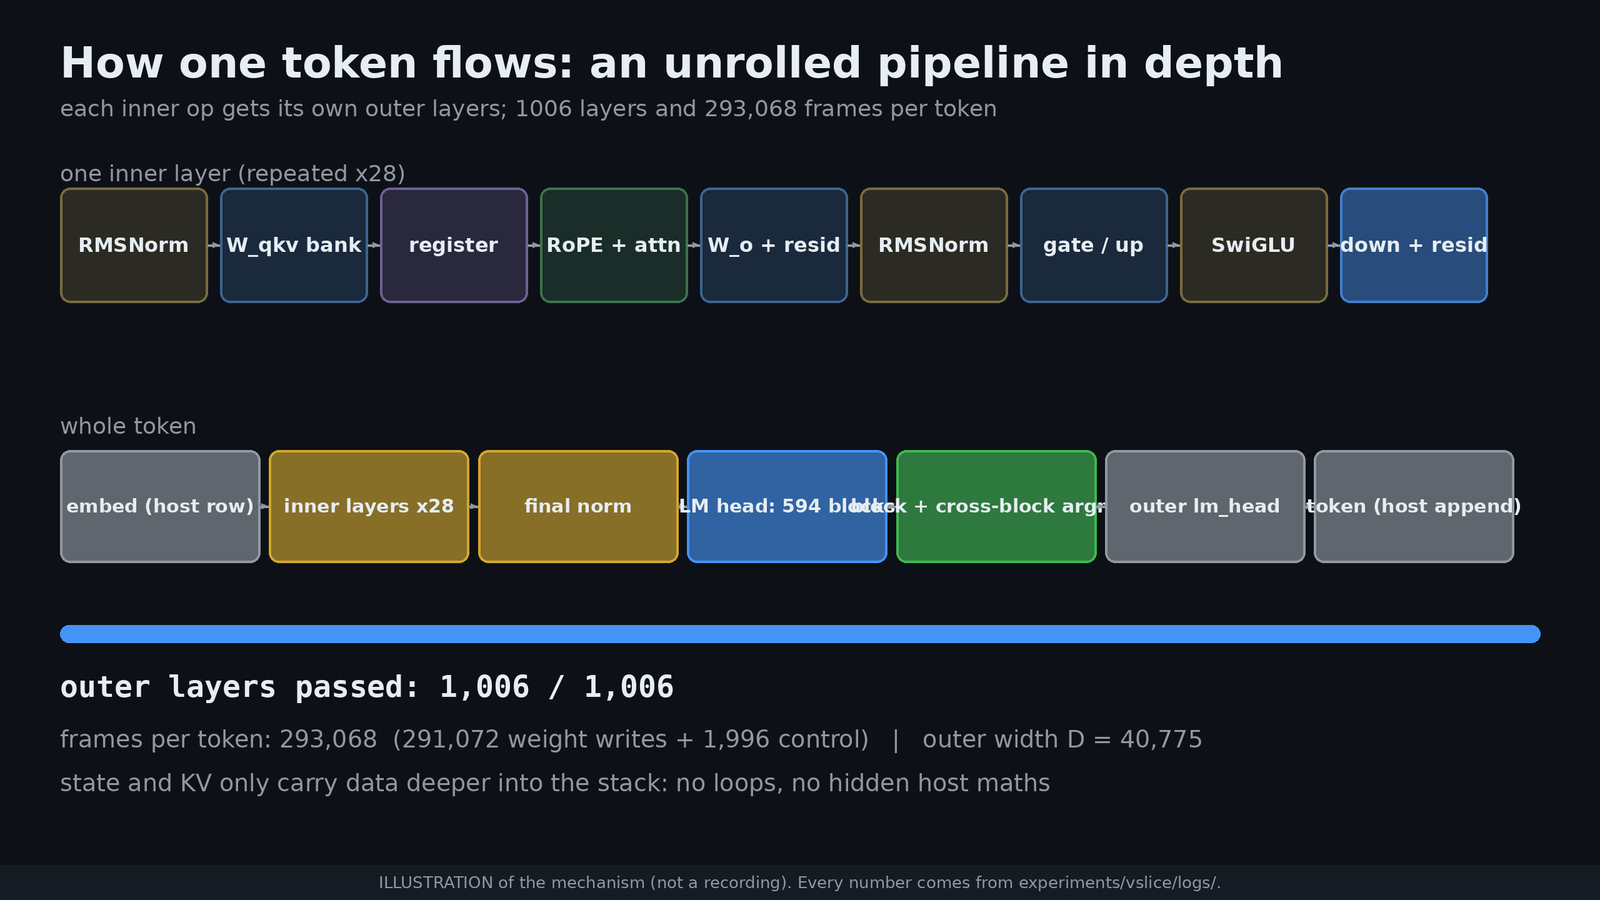
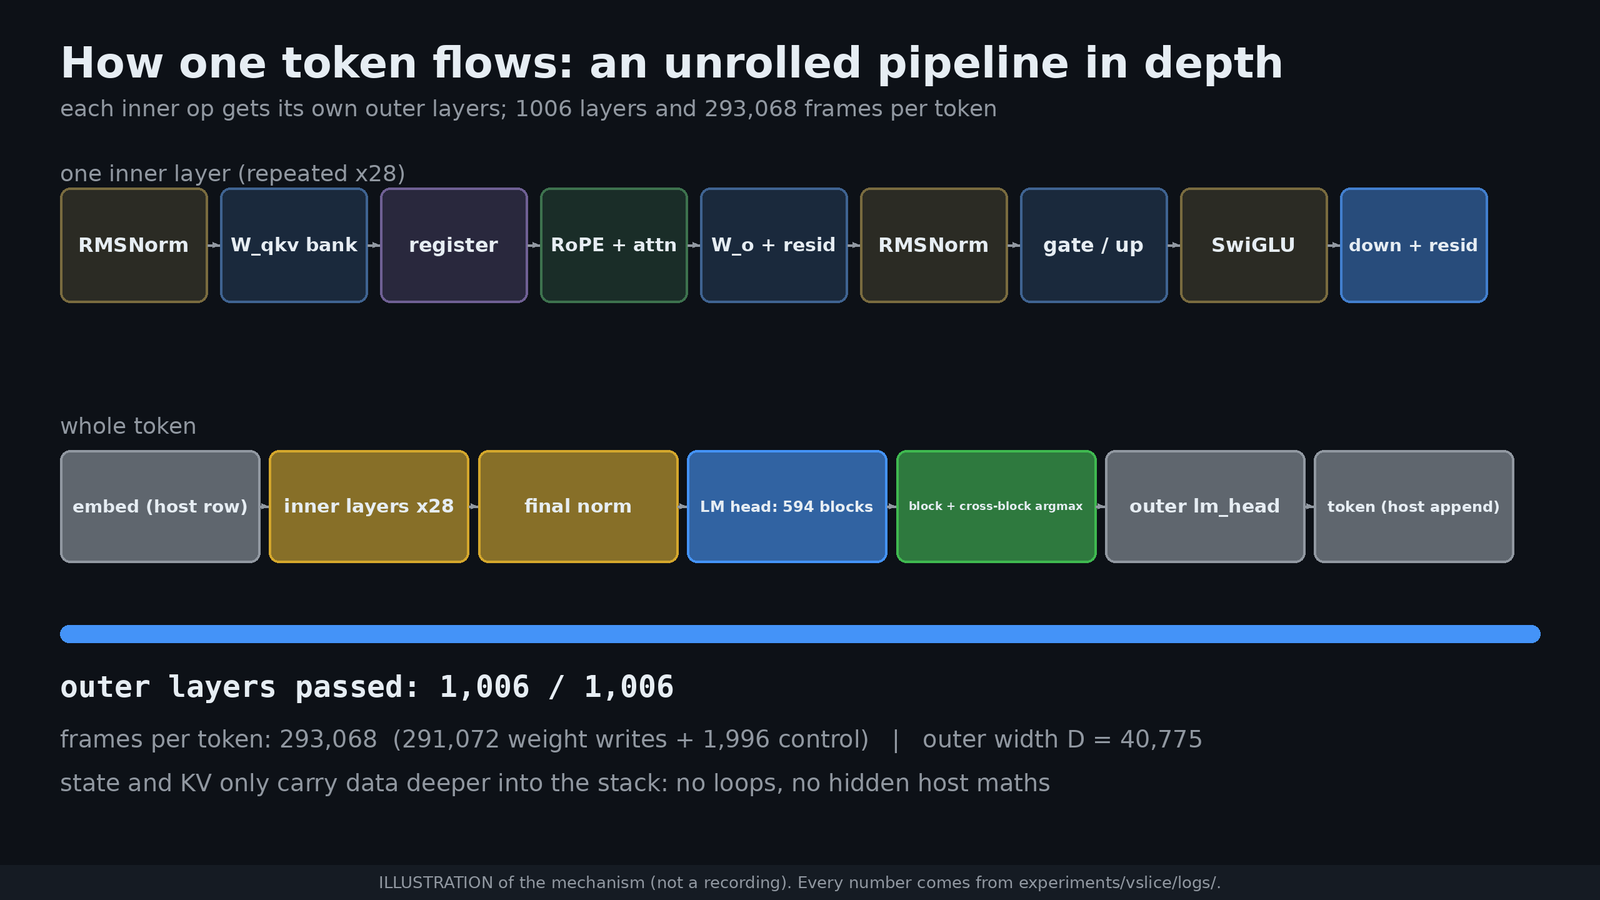
docs(tiers): tiny-model measured table, 0.6b measured instruction counts with context dimension, reconcile q4v vs t3

diff --git a/docs/TIERS.md b/docs/TIERS.md
@@ -12,7 +12,7 @@ s/token = trace tokens per token / trace-tok/s. Rate column for T1+ is Qwenputer
 |---|---|---|---|---|---|---|---|---|---|---|
 | T0 | literal: plain C int8 RV32IM, stock HF modules | 4.0e9 [P] | 5.6e9 [P] | 91-250 [M upstream, HF path] | 1 | L4 | 2.2e7 - 6.1e7 (0.7-1.9 yr) | PROJECTED | plan sec. 3, 5 | e713778 |
 | T1 | T0 + fused executor (Triton + CUDA graph) | 4.0e9 [P] | 5.6e9 [P] | 5,562 [M upstream] | 1 | L4 | 1.0e6 (11.6 d) | PROJECTED | plan sec. 5 | e713778 |
-| T2 | T1 + SMAQA int8 build (VDOT int4 is T3) | 5.4e8 matvec only [P from M instr/MAC 0.913] | 7.6e8 at 1.4 tok/instr [P] | 5,562 | 1 | L4 | 1.4e5 (39 h) | PROJECTED | plan sec. 3, 5 | e713778 |
+| T2 | T1 + SMAQA int8 build (ctx 1 throughout; see context table) (VDOT int4 is T3) | 5.4e8 matvec only [P from M instr/MAC 0.913] | 7.6e8 at 1.4 tok/instr [P] | 5,562 | 1 | L4 | 1.4e5 (39 h) | PROJECTED | plan sec. 3, 5 | e713778 |
 | T3 | T2 + VDOT int4 (0.176 instr/MAC) + nonlinear ISA ext + algorithmic cuts | 1.05e8 matvec only [P from M 0.176] + nonlinear, not yet counted | 1.25e8-1.5e8 matvec only [P] (plan said 1.2e8) | 3,300-5,562 | 1 | L4/A10G | 2.3e4 - 4.5e4 (6-12 h), nonlinear extra |  PROJECTED | plan sec. 5 | e713778 |
 | T4 | T3 + persistent kernel, faster GPU | same | 1.2e8 | 1.0e4-1.6e4 [E] | 1 | L40S/A100/H100 | 7.5e3 - 1.2e4 | PROJECTED | plan sec. 5 | e713778 |
 | T5 | T3 + in-forward-pass lanes (SIMT) | same | ~1.3e8 + join | 5,562 per executor [M upstream, batch 1] | 2-4 lanes (4B only; 0.8B 1 lane) | 1 GPU, fused executor needed | 8.3-12.4 h/token at 16 lanes, 8.7-10.1 h at 4 lanes (multicore model, nonlinear unsplit); gain bounded ~1.4x by token bus | PROJECTED [needs R2, R4] | `experiments/circuit/multicore/res_model.json` | efc7dad |
@@ -30,6 +30,30 @@ Correction (multicore, 44ba97c, modeled not run): lane-level parallelism inside 
 - Effects multiply only when they act on different factors: instruction count (compiler, kernels, algo, nonlinear), trace tokens per instruction (ISA fusion), and tokens per second (engine, hardware, lanes). Within the same factor they overlap (for example nonlinear ISA and kernels both cut instructions) and must be re-measured jointly, not multiplied.
 - Lanes (T5) multiply the rate only if the work is divisible without a serial dependency; layers are serial, so lane speedup applies within a layer's matvec rows, and the per-layer synchronisation cost is unmeasured.
 - Stories260K scaling to Qwen3-0.6B assumes cost proportional to parameters; plan sec. 3 gives caveats (LM head 26 % of MACs, nonlinear ops not proportional). Treat as +-2x until the compiler agent's measured instr/MAC replaces it.
+
+## Measured tiny-model runs (NOT Qwen3-0.6B; model size stated)
+
+| Run | Inner model | Outer / executor | Trace tokens | Rate | Exactness | Evidence | Commit |
+|---|---|---|---|---|---|---|---|
+| tiny Qwen3-architecture firmware, 16 generated tokens | dim 64, 8 heads / 4 kv, head size 8, hidden 128, 1 layer, vocab 128, random weights | Qwenputer fused circuit executor (checkpoint size and GPU not stated in the log; asked e2e) | 708,920 steps (reference 708,921 tokens, 529,035 instr: 1.34 tok/instr) = 44.3k trace tokens per generated token | 4,225 tok/s (0.237 ms/step) = 10.5 s per tiny token [M] | fused trace "exact" vs reference emulator; HF check of the same firmware at f32 rel err 6.3e-7 (compiler `res_tiny.json`) | `experiments/circuit/e2e/logs/fused_q3_16tok.log` | eb4f4f3 |
+
+This is the first MEASURED circuit-route run. It validates the pipeline (firmware -> executor -> exact trace) at toy size only. Nothing here is a Qwen3-0.6B number.
+
+## Qwen3-0.6B: MEASURED instruction counts, s/token COMPUTED from assumed rates
+
+Instructions measured by the compiler's RV32IM emulator on real HF weights (positions 0..3; larger contexts extrapolate the measured per-context-token slope). Seconds are NOT measured: s = instr x tok/instr / rate, with 1.40 tok/instr and 5,500 tok/s (best 1.19 @5,500, worst 1.40 @3,200 give 1.3e5 / 2.6e5 s at ctx 1). Evidence: `experiments/circuit/compiler/RESULTS.md`, `res_full_q4v.json`.
+
+| Build | ctx | instr/token [M] | s/token [computed] | days |
+|---|---|---|---|---|
+| q4v (VDOT int4, soft-float glue) | 1 | 5.87e8 | 1.49e5 | 1.73 |
+| q4v | 128 | 3.47e9 | 8.84e5 | 10.2 |
+| q4v | 1024 | 2.38e10 | 6.07e6 | 70.2 |
+
+Context dimension: attention grows linearly, about 2.3e7 instructions per context token in the q4v build (about 200 instr per attention MAC, all soft-float). Every tier row above is at ctx 1; at ctx 128 the q4v build is 5.9x more expensive and at ctx 1024 40x. Tier rows must name their context length.
+
+Reconciliation of q4v 1.7 days with the T3 projection of 6-12 h: the q4v build has VDOT (and SMAQA/custom class 3.1e8 of 2.6e9 instr over 4 positions) but still runs RMSNorm, softmax, exp, SwiGLU and RoPE as compiled soft-float: `__mulsf3` 1.25e9, `__addsf3`/`__subsf3` 2.5e8 each, `expf` 3.8e7 of 2.6e9 total. The nonlinear agent's fixed-point build with EXP2/RSQ/SIGM/AMX/ROT16 instructions costs 6.1e6 (T=1) to 9.4e6 (T=512) instructions for all nonlinear plus glue, against about 4.9e8 of non-matvec instructions in q4v at ctx 1. So the custom instructions and fixed-point kernels (9096c9d, ef9a958) are NOT yet in the q4v build; folding them in is the next integration step (compiler + nonlinear). The nonlinear agent's own matvec figure is 9.7e7 (VDOT, 8 rows sharing activations) vs 2.5e8 for single-row VDOT; q4v matvec uses the 0.176 instr/MAC kernel (1.05e8). Expected combined instruction count at ctx 1 is about 1.1e8-1.2e8, i.e. the T3 range, once both are merged; at long context the fixed-point softmax cost (14.4 instr per score element, 448 rows x T) must be added, not the plain soft-float one. PROJECTED until the merged build runs.
+
+Fidelity flag: `res_full_q4v.json` records `argmax_fw` [13, 315, 279, 374] vs `argmax_hf` [15846, 315, 279, 374] on the 4-token prompt: the q4v firmware differs from HF at position 0 (agrees at 1-3). Argmax vs HF is not yet a pass; this belongs under R4 (numeric contract).
 
 ## Measured components (not full-model tiers)
 

diff --git a/README.md b/README.md
@@ -32,7 +32,7 @@ Single source of truth for what is done and what is not. Pending rows are flippe
 | Free-running generation vs HF greedy (outer token fed back) | **in progress** | pending: result path `TBD` |
 | HostGuard audit of the real driver | **in progress** | pending: result path `TBD` |
 | Speedup work (tuned executor) | **in progress** | pending, see [`PERF_NOTES.md`](PERF_NOTES.md) / [`RUNS.md`](RUNS.md); the 268.6 s headline is the untuned baseline |
-| Circuit route: Qwen3-0.6B as a program on a Qwenputer-style RV32IM CPU inside a real Qwen3.5-0.8B/4B | **not run yet** (build agents working; no end-to-end token) | [`docs/TIERS.md`](docs/TIERS.md), [`docs/CIRCUIT_ROUTE_PLAN.md`](docs/CIRCUIT_ROUTE_PLAN.md) |
+| Circuit route: Qwen3-0.6B as a program on a Qwenputer-style RV32IM CPU inside a real Qwen3.5-0.8B/4B | **tiny model only**: a toy Qwen3-architecture firmware ran exact on the fused circuit executor (708,920 trace tokens, 4,225 tok/s). Qwen3-0.6B: instruction counts measured (5.87e8 instr/token at ctx 1), no 0.6B run yet | [`docs/TIERS.md`](docs/TIERS.md), [`docs/CIRCUIT_ROUTE_PLAN.md`](docs/CIRCUIT_ROUTE_PLAN.md) |
 <!-- STATUS:END -->
 
 ## Watch it

diff --git a/docs/launch/UPDATING.md b/docs/launch/UPDATING.md
@@ -36,3 +36,5 @@ Source of truth: `docs/TIERS.md`; a row flips only from a committed `experiments
 - `make_media.py`: add the new tier as its own rung/bar (do not reuse the compiled-route T-names; label it "circuit T<n>"); regenerate tier ladder and climb GIF, add the measured s/token as a separate bar in `sc_cost`.
 - `TWEET.md`: add one line with tier, model size actually run (tiny/0.6B), trace tokens, s/token; keep "projected" wording for unmeasured tiers.
 - `PROVENANCE.md`: row with the result JSON path.
+
+Current state (2026-11-06): the only measured circuit-route run is the tiny-model fused-executor run (eb4f4f3, `docs/TIERS.md` tiny-model table). Do not feature it as a tier-ladder rung; if media mention it, label it "toy model, 16 tokens". Qwen3-0.6B instruction counts are measured but s/token is computed from assumed rates and must be drawn hatched/labelled "projected". Tier media must state context length (ctx 1 vs 128 vs 1024).
